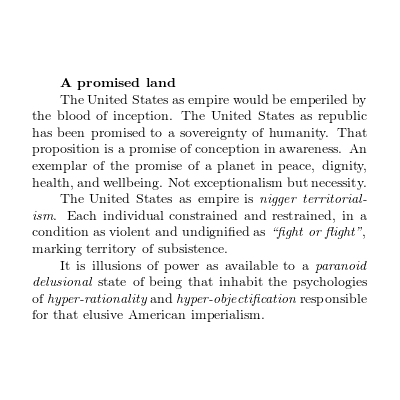
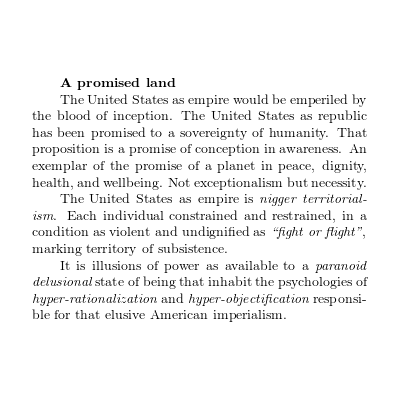
american imperialism is nigger territorialism

Changed region(s): [[0.06, 0.69, 0.93, 0.81]]

diff --git a/2021/journal-20210104-polecon-0.tex b/2021/journal-20210104-polecon-0.tex
@@ -15,7 +15,7 @@ subsistence.
 
 It is illusions of power as available to a {\it paranoid delusional}
 state of being that inhabit the psychologies of {\it
-hyper-rationality} and {\it hyper-objectification} responsible for
+hyper-rationalization} and {\it hyper-objectification} responsible for
 that elusive American imperialism.
 
 \bye
